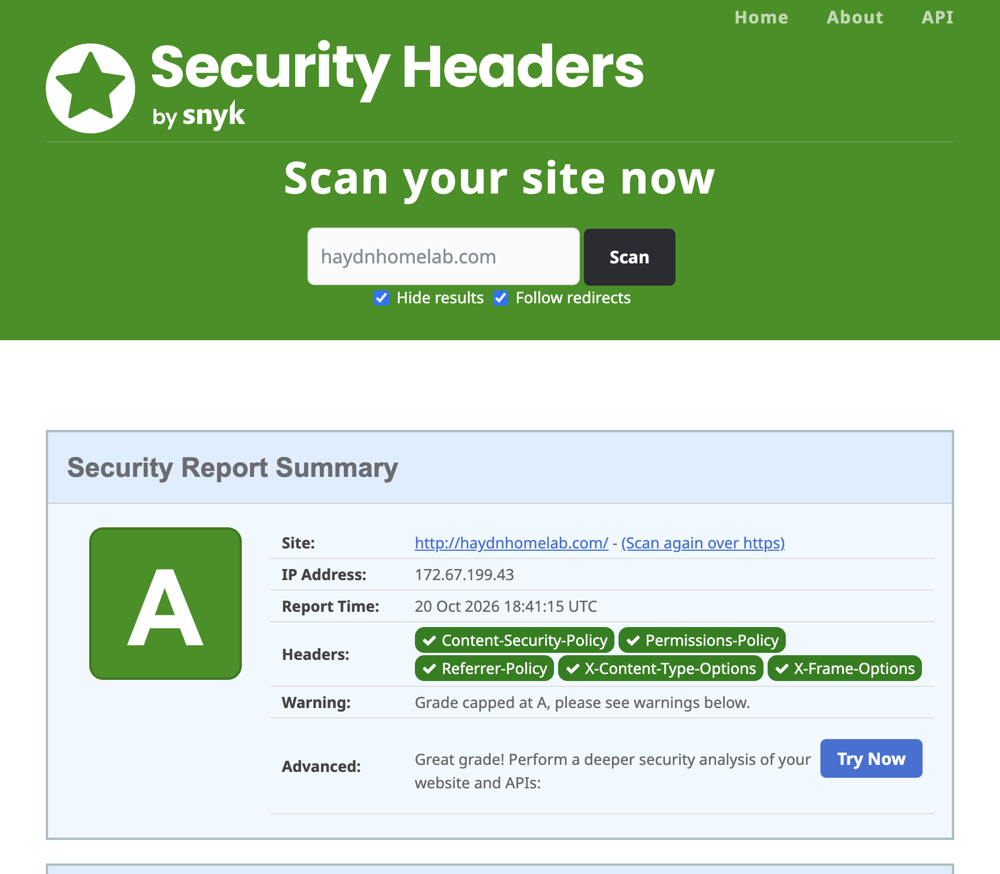
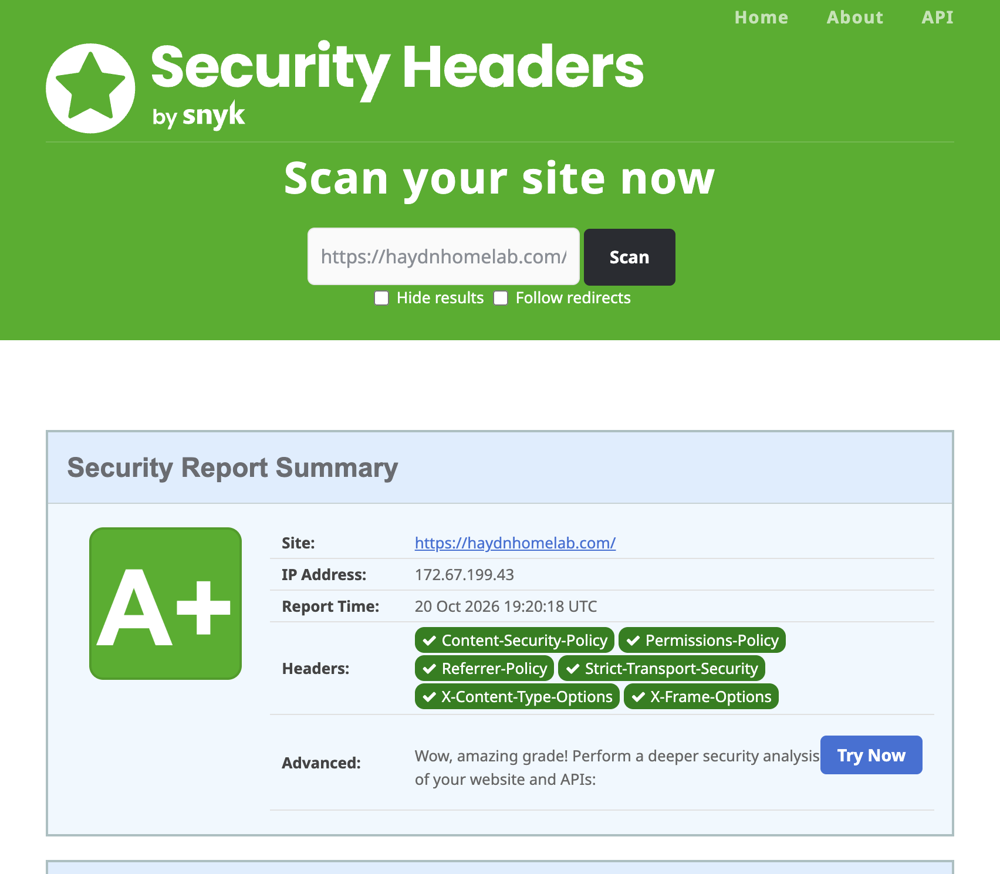
Security headers A+
Claude-Session: https://claude.ai/code/session_01PfMQVZUKJySj13JNApecNQ

diff --git a/docs/security-plan.md b/docs/security-plan.md
@@ -87,7 +87,7 @@ How I keep my homelab secure, and how I've tested it. I started this as a plan b
 - [x] Fail2ban: 5 fake logins from my Kali VM got its IP banned straight away (18 October 2026)
 - [x] Lynis security audit: hardening score went from 63 to 75 (18 October 2026)
 - [x] Honeypot test: SSH and fake NAS logins from my Kali VM were caught and logged (20 October 2026)
-- [x] Security headers on haydnhomelab.com: securityheaders.com grade went from F to A (20 October 2026)
+- [x] Security headers on haydnhomelab.com: securityheaders.com grade went from F to A+ (20 October 2026)
 - [x] Backup restore test: restored my UFW rules from the nightly backup and they matched exactly (20 October 2026)
 
 ### Nmap results (home network)
@@ -105,11 +105,11 @@ Over Tailscale, DNS (53) didn't show because at the time I'd only allowed it fro
 
 ### Security headers (20 October 2026)
 
-Added security headers to haydnhomelab.com in Caddy. securityheaders.com went from **F to A**.
+Added security headers to haydnhomelab.com in Caddy. securityheaders.com went from **F to A+**, with all six headers including HSTS.
 
 <p>
   <img src="../images/securityheaders-before.png" alt="Before: grade F, all headers missing" width="420">
-  <img src="../images/securityheaders-after.png" alt="After: grade A, all headers present" width="420">
+  <img src="../images/securityheaders-after.png" alt="After: grade A+, all six headers present" width="420">
 </p>
 
 It was capped at A because my Content Security Policy still allowed inline scripts (`'unsafe-inline'`), since the page's code was all in one file. I moved the code into `app.js` and took `'unsafe-inline'` out of `script-src`, so now only scripts from my own site can run. Even if someone managed to inject code into the page, the browser would refuse to run it.

diff --git a/docs/build-log.md b/docs/build-log.md
@@ -4,6 +4,7 @@ Notes on how the build is going, including anything that goes wrong and how I fi
 
 ## 20 October 2026
 
+- Got the security headers up to **A+**. It was capped at A because the page's code was inline, so the policy had to allow inline scripts. Moved the code into `app.js` and blocked inline scripts completely, so even injected code wouldn't run. The first rescan still showed the old result, but `curl -sI` on the Pi proved the new header was live, and scanning over https gave A+.
 - Added security headers to the status page in Caddy: HSTS, a Content Security Policy, X-Frame-Options, X-Content-Type-Options, Referrer-Policy and Permissions-Policy, and hid the Server header. securityheaders.com went from an **F to an A**. The CSP only lets the page load things from itself and Google Fonts, so injected code can't pull in scripts from anywhere else.
 - Set up Unbound so Pi-hole stops sending my lookups to Google or Cloudflare. It asks the root DNS servers, then `.com`, then the site's own server, and checks DNSSEC. It only listens on the Pi (`127.0.0.1:5335`), so no new firewall rules. Tested before switching Pi-hole over: a normal lookup worked, `dnssec.works` came back with the `ad` (authenticated) flag, and the deliberately broken `fail01.dnssec.works` gave SERVFAIL, so faked answers get refused.
 - Took proper photos of the finished rack. Moved the My Passport onto the shelf, on top of the switch, plugged into the Pi's USB 3 port. Updated the rack drawing on the status page and the rack layout diagram to match, and the drive can be clicked on the site now.

diff --git a/README.md b/README.md
@@ -7,7 +7,7 @@
 ![CPU temp](https://img.shields.io/endpoint?url=https%3A%2F%2Fhaydnhomelab.com%2Fbadges%2Ftemp.json)
 ![power](https://img.shields.io/endpoint?url=https%3A%2F%2Fhaydnhomelab.com%2Fbadges%2Fpower.json)
 ![Lynis](https://img.shields.io/badge/Lynis%20score-75-blue)
-![Security headers](https://img.shields.io/badge/security%20headers-A-brightgreen)
+![Security headers](https://img.shields.io/badge/security%20headers-A%2B-brightgreen)
 
 My first homelab: a Raspberry Pi 5 in a 10 inch rack. I started this repo to plan it and now use it to document the build. I'm doing it to learn networking and security hands-on, instead of just reading about it. The badges above are live from the Pi.
 
@@ -87,7 +87,7 @@ Commits that Claude helped with have Claude listed as a co-author.
 - [x] Homepage and Speedtest Tracker in Docker
 - [x] `.lan` names for my services
 - [x] Unbound for private DNS lookups
-- [x] Security headers on my site (F to A on securityheaders.com)
+- [x] Security headers on my site (F to A+ on securityheaders.com)
 - [x] Live badges on this README
 
 ## Next
